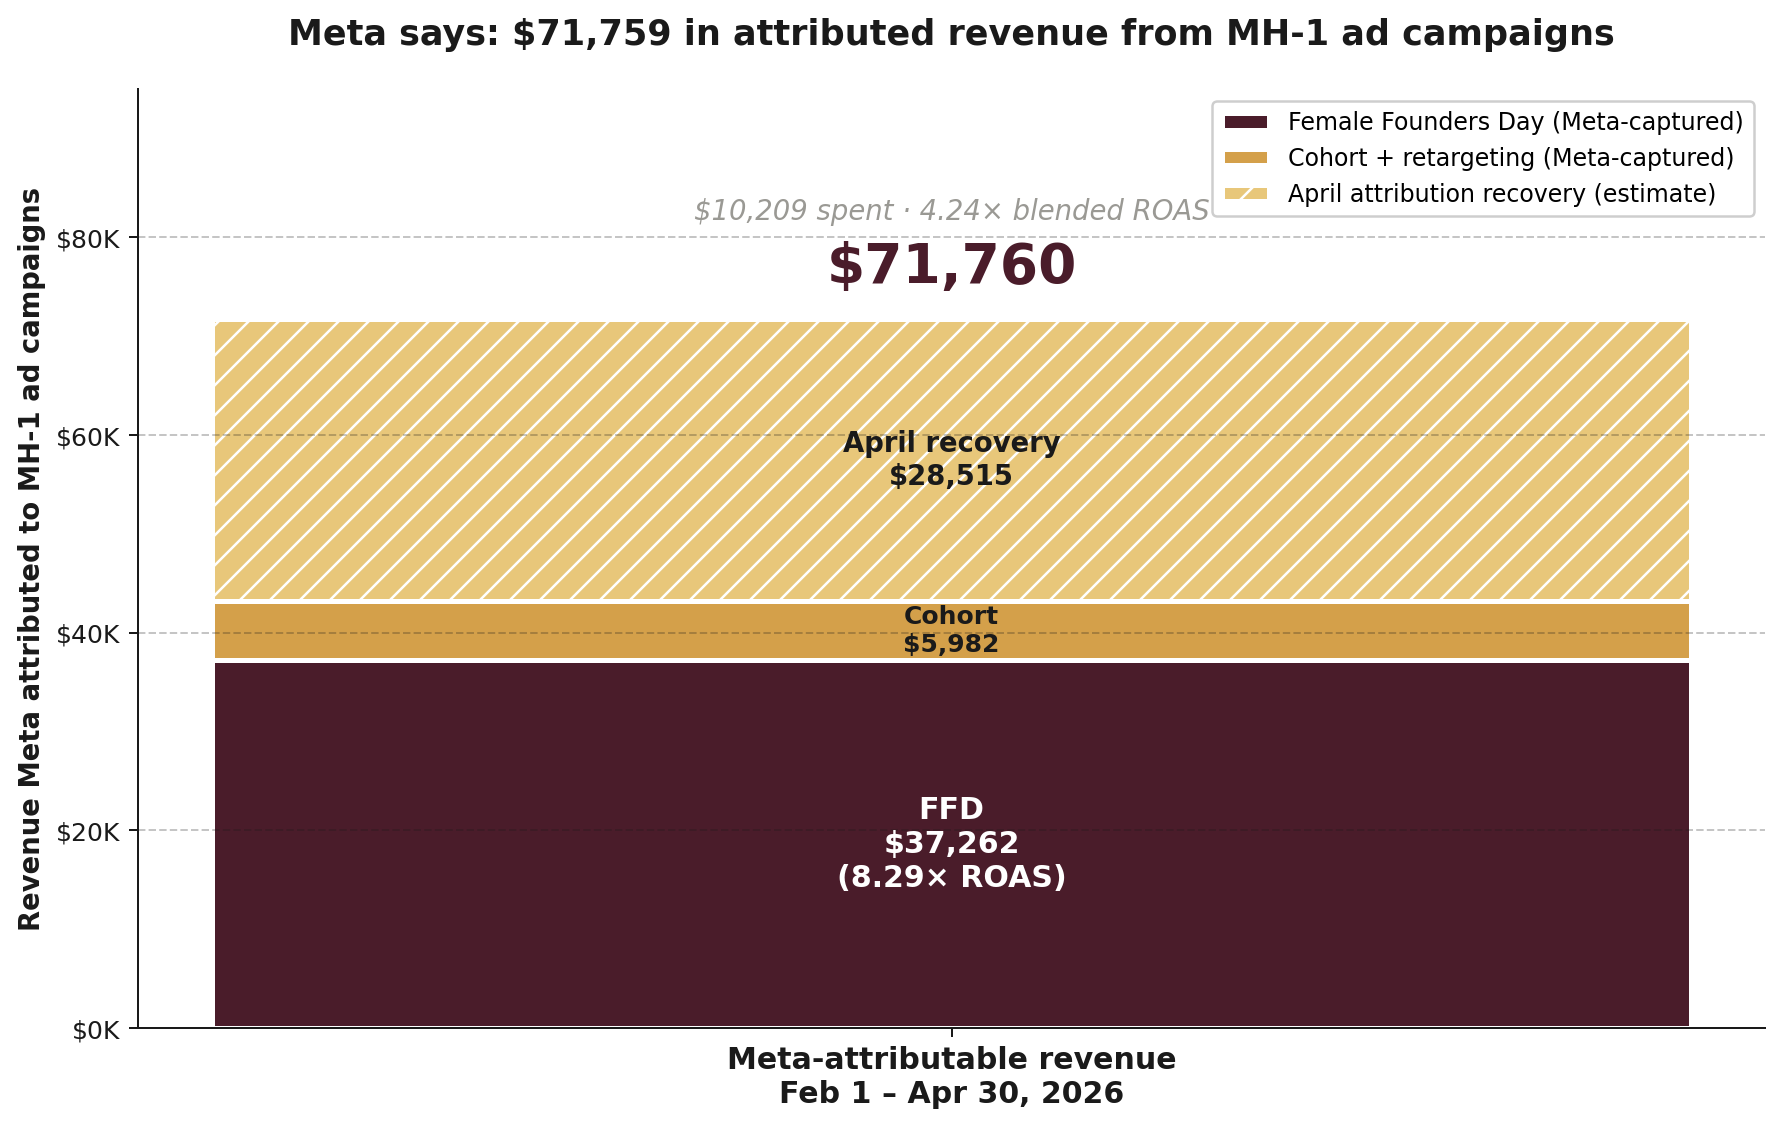
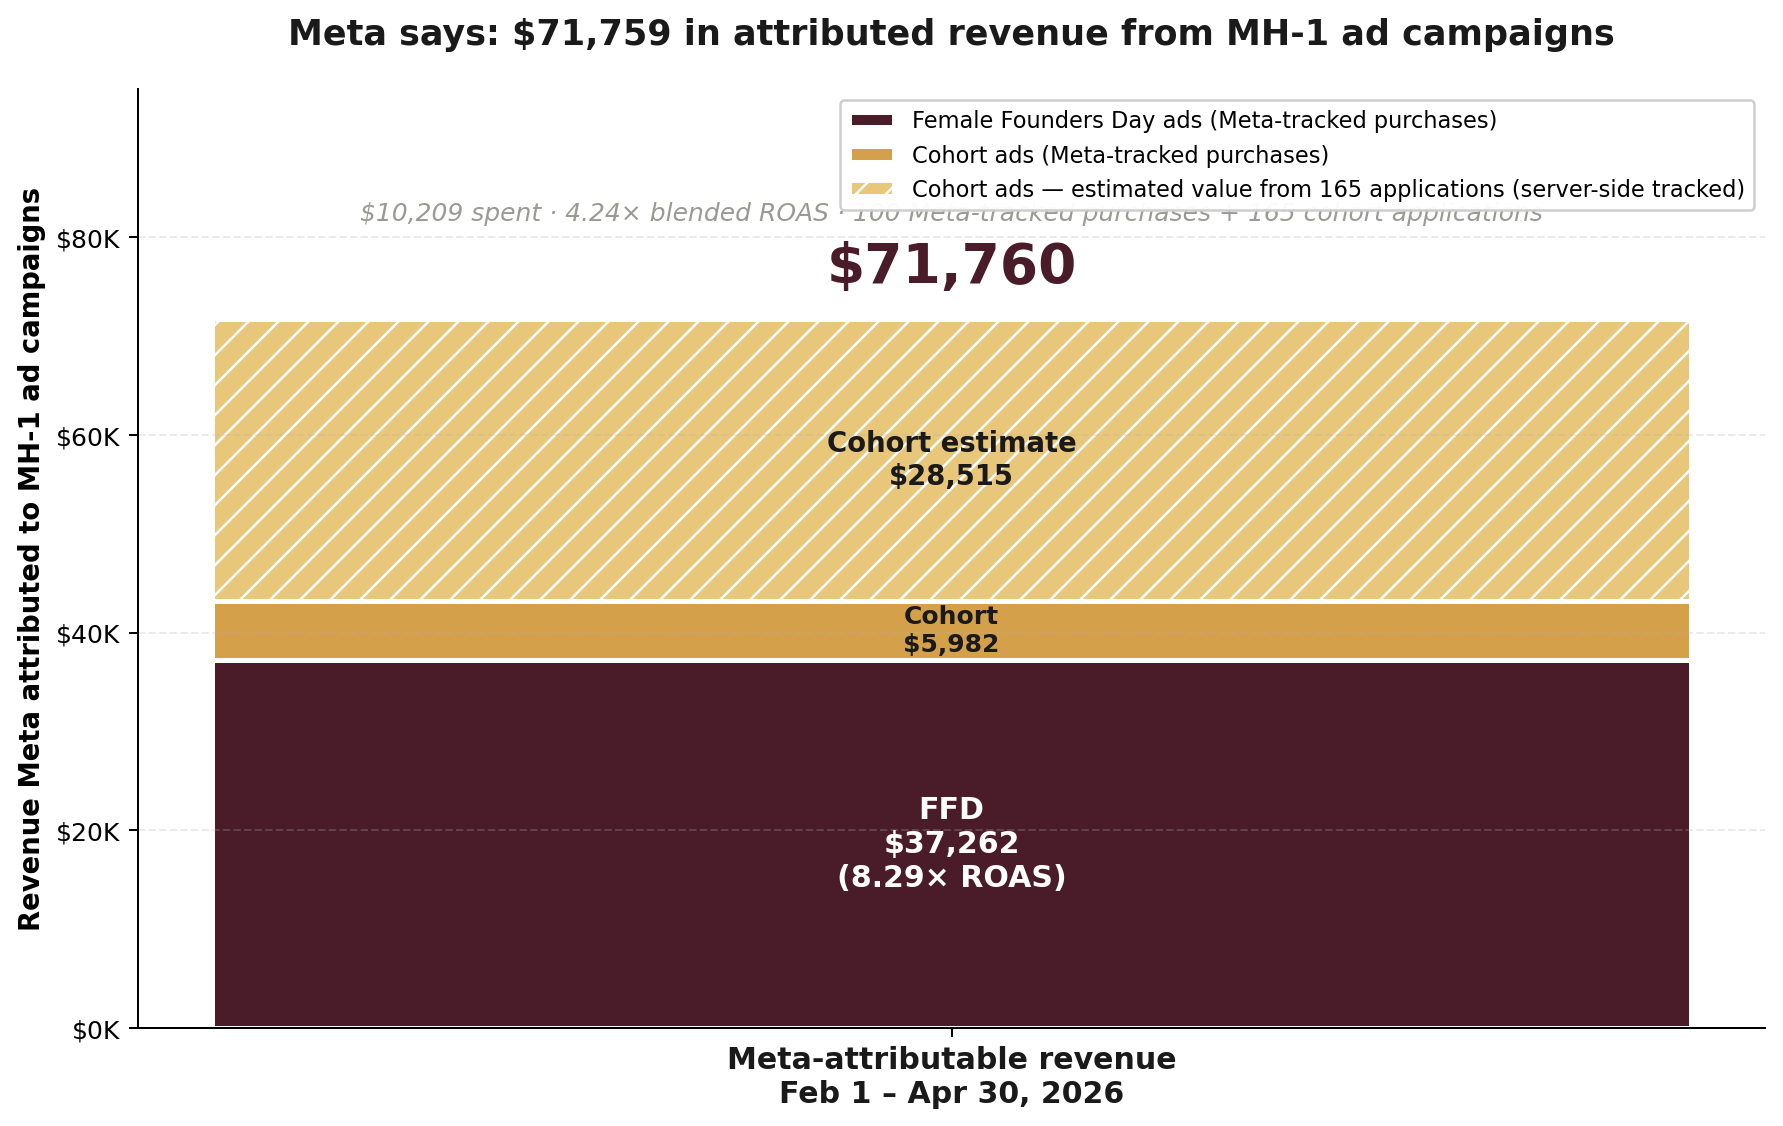
Slide 1 reframed: $28K kept but labeled as 'cohort estimate from 165 applications'; clean slide-by-slide copy file

diff --git a/slides/deck-copy.md b/slides/deck-copy.md
@@ -1,0 +1,127 @@
+# 5-Slide Deck — Final Copy (cut-and-paste ready)
+
+Each slide has a **headline** (the title to put at the top), the **chart filename** (drag/drop into the slide), and **3-4 bullets** for the body. Plain text — pastes into PowerPoint, Keynote, or Google Slides cleanly.
+
+═══════════════════════════════════════════════════════════════
+
+## SLIDE 1 — META SAYS MARKETING MADE YOU MONEY
+
+HEADLINE:
+Meta drove $71,759 in attributed revenue from $10,209 in ad spend
+Feb 1 – Apr 30, 2026 · 4.24× blended ROAS
+
+CHART: slide1-meta.png
+
+BODY BULLETS:
+• Female Founders Day campaigns: $37,262 in Meta-tracked purchases · 8.29× ROAS · top retargeting set 8.06× / top LAL prospecting 23.6×
+• Cohort campaigns: $5,982 in directly-tracked purchases plus an estimated $28,515 in additional value from 165 cohort applications that came through Meta ads (tracked server-side via Typeform; the Meta pixel was partially broken on the apply funnel until April 28, when Jeff's CAPI fix went live)
+• Total: 100 directly-tracked Meta purchases + 165 attributable cohort applications across $10,209 in spend
+
+═══════════════════════════════════════════════════════════════
+
+## SLIDE 2 — HUBSPOT SAYS MARKETING MADE YOU MONEY
+
+HEADLINE:
+HubSpot deal revenue is up 22% YoY · average deal value up 75% YoY
+MH-1 is bringing in higher-value subscribers
+
+CHART: slide2-hubspot.png
+
+BODY BULLETS:
+• Total HubSpot closed-won deals Feb–Apr 2025: $161,046 (303 deals)
+• Total HubSpot closed-won deals Feb–Apr 2026: $195,980 (211 deals) — +22% YoY
+• Average deal value: $531 (2025) → $929 (2026) — +75% YoY, driven by higher-value Cabinette and Lifetime cohort offerings
+• 137 of 211 closed-won deals (65%) had a marketing channel MH-1 operates as the first or last touchpoint — totaling $104,287 in deal revenue
+• Plus 54 deals worth $28,934 influenced by Mike's Consumer '26 sequence automation (HubSpot Sequences UI)
+
+═══════════════════════════════════════════════════════════════
+
+## SLIDE 3 — CHARGEBEE SAYS REVENUE IS UP SINCE WE STARTED
+
+HEADLINE:
+Net cash collected is up 57.9% YoY Feb–Apr
+April 2026 alone: literally 2× April 2025
+
+CHART: slide3-chargebee.png
+
+BODY BULLETS:
+• Feb–Apr 2025 (pre-MH-1): $174,923 net cash
+• Feb–Apr 2026 (MH-1 era): $277,130 net cash — +57.9% YoY
+• April 2026: $130,653 — 2.08× the trailing 12-month average ($61,856), 2.57× the Q4 2025 monthly average ($50,075), 7.1× the November 2025 low ($18,100)
+• 231 new subscriptions added Feb–Apr 2026 — including a record 124 in April alone (more than Feb + March combined)
+• Q1 2025 cohort: $25,000 → Q2 2026 cohort: $60,343 verified — +141% / 2.41× lift on the same product
+
+═══════════════════════════════════════════════════════════════
+
+## SLIDE 4 — IS THIS JUST RETENTION GROWTH? NO.
+
+HEADLINE:
+100% of YoY revenue growth came from new acquisition
+Retained renewal cash actually went DOWN 8.7%
+
+CHART: slide-new-vs-retained.png
+
+BODY BULLETS:
+• Feb–Apr 2025 mix: $65,124 from new acquisition (37%) + $109,800 from retained renewals (63%) = $174,923
+• Feb–Apr 2026 mix: $176,902 from new acquisition (64%) + $100,229 from retained renewals (36%) = $277,130
+• New acquisition: +$111,778 YoY (+172%)
+• Retained renewals: −$9,571 YoY (−8.7%)
+• Without MH-1's new-acquisition contribution, total cash would be DOWN YoY because retention slipped
+• On Cabinette specifically: 38 NEW Cabinette customers in Q2 2026 cohort = $60,343. MH-1 ran the paid ads, sequence automation, retargeting, and outbound calls that brought them in. "Cabinette is all FFC" doesn't match the data.
+
+═══════════════════════════════════════════════════════════════
+
+## SLIDE 5 — LOOK AT WHAT WE'VE BUILT FOR YOU
+
+HEADLINE:
+Beyond direct revenue: the program built into FFC for $20K/month
+Every line below is live infrastructure on the FFC account today
+
+NO CHART — just the bulleted list (organized into groups for visual hierarchy):
+
+PAID ACQUISITION (Cameron Rzonca):
+• Built and ran every Meta ad campaign — 15 ad sets across FFD, cohort, retargeting, prospecting (4.24× blended ROAS)
+• First paid LinkedIn lane in FFC's history (CTR above LinkedIn benchmark)
+• Server-side CAPI pipeline — Chargebee → Segment → Meta direct purchase events (live April 28)
+• Typeform CAPI server-side tracking — accurate cohort application attribution
+
+EMAIL + LIFECYCLE PROGRAM (Michael DiLillo):
+• 22 published marketing emails — 151,167 sends, 311 unique clickers
+• 23 new paying subscribers acquired through MH-built email engagement
+• 297 active workflows / 118 enabled in the lifecycle layer
+• 133 automation campaigns running (onboarding, renewal nudges, re-engagement)
+• Mike's Consumer '26 sequence automation: 54 deals worth $28,934
+• April 27 retention email reached 863 paying members ($538K ARR)
+• 48 broken workflows audited with $10K+ recoverable upside
+
+AI INSIGHTS (Lifecycle Dashboard):
+• Subject Line Analyzer — 95% open lift from "Your" / first-name openers (36.94% vs 18.9%)
+• Section Heatmap — the "hotspot" analysis Ali asked for April 13
+• Creative Format Winner — AI scoring of formats
+• Topic Performance Clustering — 5× engagement gap finding
+• AI-driven Typeform Audit — identified 78% of cohort funnel drop-off
+• Brand voice "voice print" for AI content generation
+
+1:1 OUTBOUND (Lowella Buendia):
+• 46 sales calls + 224 SMS = 5 attributable paid sign-ups
+• LinkedIn outreach: 83 invites, 12 accepted with first message
+• IG/social coverage when FFC team was out
+
+STRATEGY + FOUNDATIONAL:
+• Email Industries deliverability audit — MH brought them in (February)
+• ICP survey design + launch
+• Brand audit + lifecycle architecture
+• Tech stack rebuild plan — Stripe / Chargebee / HubSpot, June 28 launch
+• ManyChat audit + V5 plan
+• Founder's Operating Manual repositioning push
+
+REPORTING (16 written reports / recaps to Ali in 12 weeks):
+• 8 weekly / bi-weekly recaps
+• FFD Wrap Report + ROAS update
+• FFC Audit Report (Email Industries)
+• Tech Stack recap + follow-up
+• Lifecycle dashboard shipped April 27–28
+• Comprehensive paid catch-up email April 29
+
+LINK FOR FULL DETAIL:
+https://newgamejay.github.io/ffc-recap-2026q1/value-recap.pdf
